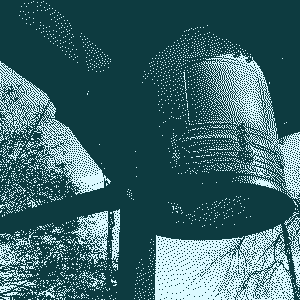
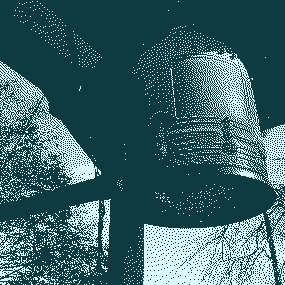
Remove CSS grid layout, update aside and posts
Removed CSS grid layout for a layout based on positions, fixing the
aside and making the main section shifted over to accout for it. Images
were also updated from 300x300 to 285x285.

diff --git a/portfolio.html b/portfolio.html
@@ -7,13 +7,9 @@
 		<link href="css/style.css" rel="stylesheet">
 	</head>
 	<body>
-		<h1>Portfolio :)</h1>
-		<p>This is my portfolio I hope you enjoy it :)</p>
-
-
 		<aside>
 			<picture>
-				<img src="images/square_dark_dither_it_futta2866.png" alt="">
+				<img src="images/square_dark_dither_it_futta2005.png" alt="Aside Image: clouds">
 			</picture>
 			<ul>
 				<li><a href="index.html">Home</a></li>
@@ -21,6 +17,39 @@
 				<li><a href="about.html">About</a></li>
 			</ul>
 		</aside>
+
+		<section class="main">
+			
+		<div class="post">
+
+		<h2 class="header">Post 2</h2>
+
+		<p>
+		Lorem ipsum dolor sit amet, consectetur adipiscing elit. Praesent imperdiet fringilla dui nec elementum. Duis malesuada eu mauris a venenatis. Duis venenatis lorem dolor, mattis congue diam maximus non. Quisque egestas metus non quam ullamcorper, at lobortis risus pretium. Nulla elementum lacus justo, quis tincidunt elit scelerisque vitae. Donec nec velit in nulla iaculis semper. Donec placerat arcu sit amet nulla scelerisque euismod. Praesent eu accumsan ipsum, a posuere augue. Fusce at pulvinar tellus, sit amet finibus risus. Pellentesque mauris massa, sodales non feugiat id, maximus quis leo. Phasellus vulputate ipsum a nisi dictum, vitae vehicula enim pretium. Morbi sed ligula vitae odio tincidunt mollis in gravida metus. Proin pulvinar aliquet leo id hendrerit. Donec ligula diam, scelerisque molestie convallis quis, dignissim eu urna. Morbi quis lacinia ipsum. Integer porta augue quis massa aliquam pellentesque.
+		</p>
+
+		<p>
+			Phasellus ac ante vitae eros lobortis iaculis eget eu ligula. Sed quis odio ac libero dignissim maximus non at eros. Ut ligula felis, accumsan vel ex eu, blandit aliquet ligula. Nullam dignissim iaculis risus, nec congue nunc pulvinar eu. Nullam imperdiet venenatis sapien consectetur finibus. Vestibulum nibh diam, consequat ut venenatis eget, elementum nec ante. Ut aliquet, enim eu lobortis varius, massa purus ullamcorper ante, ac mattis odio augue tincidunt est.
+</p>
+		</div>
+
+		<div class="post">
+			
+		<h2 class="header">Post 1</h2>
+
+		<p>
+		Vestibulum in libero ac lorem pulvinar lacinia. Quisque sollicitudin ante vel massa laoreet mollis. Mauris consequat nunc ac scelerisque malesuada. Ut sed consectetur arcu. Ut ac ullamcorper neque, in suscipit leo. Cras aliquam, odio id pulvinar lobortis, mauris nulla auctor sapien, a viverra tortor mi at tellus. Pellentesque at erat lacinia, feugiat augue at, condimentum libero. Mauris malesuada ex et mauris eleifend, a ornare libero bibendum. Phasellus id augue urna. Vestibulum iaculis velit eu lectus pharetra, nec dapibus erat sollicitudin. Fusce odio enim, fermentum a imperdiet non, sollicitudin vel eros. Cras nec pellentesque lacus. 
+		</p>
+		
+		<p>
+		Praesent blandit ultrices pretium. Aliquam sollicitudin dolor vitae sapien maximus, sit amet viverra turpis mattis. Lorem ipsum dolor sit amet, consectetur adipiscing elit. Morbi laoreet massa sit amet neque interdum, a suscipit urna mattis. Maecenas id ultrices nulla. Sed in ex libero. Aenean maximus tortor augue, quis maximus leo blandit in. Sed tristique egestas eros non luctus. Donec facilisis dolor ut turpis congue, eget suscipit lectus auctor.
+		</p>
+		
+		<p> Etiam eget eleifend nulla. Sed metus metus, dapibus in risus in, finibus feugiat erat. Duis eget mollis nisl. In hac habitasse platea dictumst. Aenean commodo gravida neque, a condimentum massa suscipit porta. Nullam vitae sem in nisl egestas vestibulum ac in est. In finibus posuere magna, sit amet faucibus sapien finibus id. Nunc rhoncus nisl at dolor interdum rutrum. Vestibulum pellentesque arcu a metus interdum, id posuere risus convallis. Proin sed porta metus. Integer placerat ex eget est mattis vestibulum. Nunc neque ipsum, faucibus ut massa id, fringilla sollicitudin erat. Pellentesque nec suscipit nibh. Pellentesque vel diam finibus, elementum arcu vel, molestie leo. Fusce vitae neque vitae dolor laoreet maximus. Nullam lacinia fringilla mi, vel laoreet lectus laoreet sit amet. 
+		</p>
+		</div>
+
+		</section>
 
 	</body>
 </html>

diff --git a/index.html b/index.html
@@ -8,6 +8,17 @@
 	</head>
 
 	<body>
+		<aside>
+			<picture>
+				<img src="images/square_dark_dither_it_futta2866.png" alt="Aside Image: Bell Temple">
+			</picture>
+			<ul>
+				<li><a href="index.html">Home</a></li>
+				<li><a href="portfolio.html">Portfolio</a></li>
+				<li><a href="about.html">About</a></li>
+			</ul>
+		</aside>
+
 		<section class="main">
 			
 		<div class="homebanner">
@@ -17,7 +28,7 @@
 
 		<div class="post">
 
-		<h2 class="header">Post 2</h2>
+		<h2 class="header">Post 2: The second boogaloo<time datetime="9-11-21">Sept. 11, 2021</time></h2></h2>
 
 		<p>
 		Lorem ipsum dolor sit amet, consectetur adipiscing elit. Praesent imperdiet fringilla dui nec elementum. Duis malesuada eu mauris a venenatis. Duis venenatis lorem dolor, mattis congue diam maximus non. Quisque egestas metus non quam ullamcorper, at lobortis risus pretium. Nulla elementum lacus justo, quis tincidunt elit scelerisque vitae. Donec nec velit in nulla iaculis semper. Donec placerat arcu sit amet nulla scelerisque euismod. Praesent eu accumsan ipsum, a posuere augue. Fusce at pulvinar tellus, sit amet finibus risus. Pellentesque mauris massa, sodales non feugiat id, maximus quis leo. Phasellus vulputate ipsum a nisi dictum, vitae vehicula enim pretium. Morbi sed ligula vitae odio tincidunt mollis in gravida metus. Proin pulvinar aliquet leo id hendrerit. Donec ligula diam, scelerisque molestie convallis quis, dignissim eu urna. Morbi quis lacinia ipsum. Integer porta augue quis massa aliquam pellentesque.
@@ -30,7 +41,7 @@
 
 		<div class="post">
 			
-		<h2 class="header">Post 1</h2>
+		<h2 class="header">Post 1<time datetime="9-11-21">Sept. 11, 2021</time></h2></h2>
 
 		<p>
 		Vestibulum in libero ac lorem pulvinar lacinia. Quisque sollicitudin ante vel massa laoreet mollis. Mauris consequat nunc ac scelerisque malesuada. Ut sed consectetur arcu. Ut ac ullamcorper neque, in suscipit leo. Cras aliquam, odio id pulvinar lobortis, mauris nulla auctor sapien, a viverra tortor mi at tellus. Pellentesque at erat lacinia, feugiat augue at, condimentum libero. Mauris malesuada ex et mauris eleifend, a ornare libero bibendum. Phasellus id augue urna. Vestibulum iaculis velit eu lectus pharetra, nec dapibus erat sollicitudin. Fusce odio enim, fermentum a imperdiet non, sollicitudin vel eros. Cras nec pellentesque lacus. 
@@ -46,16 +57,6 @@
 
 		</section>
 
-		<aside>
-			<picture>
-				<img src="images/square_dark_dither_it_futta2158.png" alt="">
-			</picture>
-			<ul>
-				<li><a href="index.html">Home</a></li>
-				<li><a href="portfolio.html">Portfolio</a></li>
-				<li><a href="about.html">About</a></li>
-			</ul>
-		</aside>
 	</body>
 
 </html>

diff --git a/css/style.css b/css/style.css
@@ -24,75 +24,20 @@
 	font-family: OpenSans;
 }
 
-body {
-	display: grid;
-	grid-template: 10% 90% / 20% 80%;
-}
-
-.main {
-	grid-column: 2;
-	text-align: center;
-	margin-left: 2rem;
-	margin-right: 3rem;
-}
-
-.header {
-	font-family: Benne;
-}
-
-img {
-	border: 0.25rem double #dbf9ff;
-}
-
-.homebanner {
-	border: 0.25rem solid #dbf9ff;
-	margin-left: 6rem;
-	margin-right: 6rem;
-}
-.homebanner h1 {
-	grid-row: 1;
-	font-size: 2.5em;
-}
-.homebanner img {
-	margin-top: 1rem;
-	width: auto;
-}
-
-.post {
-	border: 0.1rem solid #dbf9ff;
-	margin: 3rem;
-}
-.post h2 {
-	font-size: 2em;
-}
-.post p {
-	text-align: left;
-	font-size: 1.5em;
-	overflow-y: hidden;
-
-	padding: 1rem;
-	padding-left: 5rem;
-	padding-right: 5rem;
-}
-
-
 aside {
-	grid-column: 1;
-	grid-row: 1 / -1;
+	position: fixed;
 	background-color: #0d3b40;
 	color: #dbf9ff;
+	border: 0.1rem solid #dbf9ff;
 
 	font-family: Benne;
 	font-size: 1.5em;
-	text-align: center;
-	margin: 1rem;
+	text-align: left;
 
 }
-aside picture img{
-	width: auto;
+aside picture img {
 }
 aside ul {
-	padding: 2% 1%;
 	list-style-type: none;
 }
 aside ul li {
@@ -105,4 +50,73 @@ aside a:link, aside a:visited {
 /* add animations here later */
 aside a:hover {
 	text-decoration: underline dotted;
+}
+
+.main {
+	position: absolute;
+	margin-left: 320px;
+	margin-right: 20px; 
+	text-align: center;
+}
+
+a:link {
+	color: #fad39d;
+}
+a:visited {
+	color: #cf80b2;
+}
+
+.header {
+	font-family: Benne;
+}
+
+img {
+	border: 0.25rem double #dbf9ff;
+}
+
+.homebanner {
+	position: relative;
+	border: 0.25rem solid #dbf9ff;
+	width: 840px;
+	margin-left: auto;
+	margin-right: auto;
+}
+.homebanner h1 {
+	font-size: 2.25em;
+}
+.homebanner img {
+	margin-top: 1rem;
+	width: auto;
+}
+
+.post {
+	border: 0.1rem solid #dbf9ff;
+	margin: 3rem;
+}
+.post h2 {
+	font-size: 2em;
+	text-align: left;
+	padding-left: 2em;
+}
+.post h2 time {
+	float: right;
+	padding-right: 2em;
+}
+.post h2 + p {
+	border-top: 2px dotted;
+}
+.post p {
+	text-align: left;
+	font-size: 1.5em;
+	overflow-y: hidden;
+
+	padding: 1rem;
+	padding-left: 5rem;
+	padding-right: 5rem;
+}
+
+.error {
+	margin: 0;
+	text-align: center;
+	font-size: 1.5em;
 }

diff --git a/css/itemsportfolio.css b/css/itemsportfolio.css
@@ -1,0 +1,11 @@
+
+aside picture {
+	background: url(../images/square_dark_dither_it_futta2158.png) no-repeat;
+	width: 300px;
+	height: 300px;
+	display: inline-block;
+}
+aside picture:hover {
+	background: url(../images/square_dark_dither_it_futta2866.png) no-repeat;
+	display: inline-block;
+}

diff --git a/404.html b/404.html
@@ -7,7 +7,11 @@
 		<link href="css/style.css" rel="stylesheet">
 	</head>
 	<body>
+		<section class="error">
 		<h1>404 Error!</h1>
 		<p>You're lost buddy :(</p>
+		<img src="" alt="">
+		<a href="index.html">Return to the Homepage</a>
+		</section>
 	</body>
 </html>
